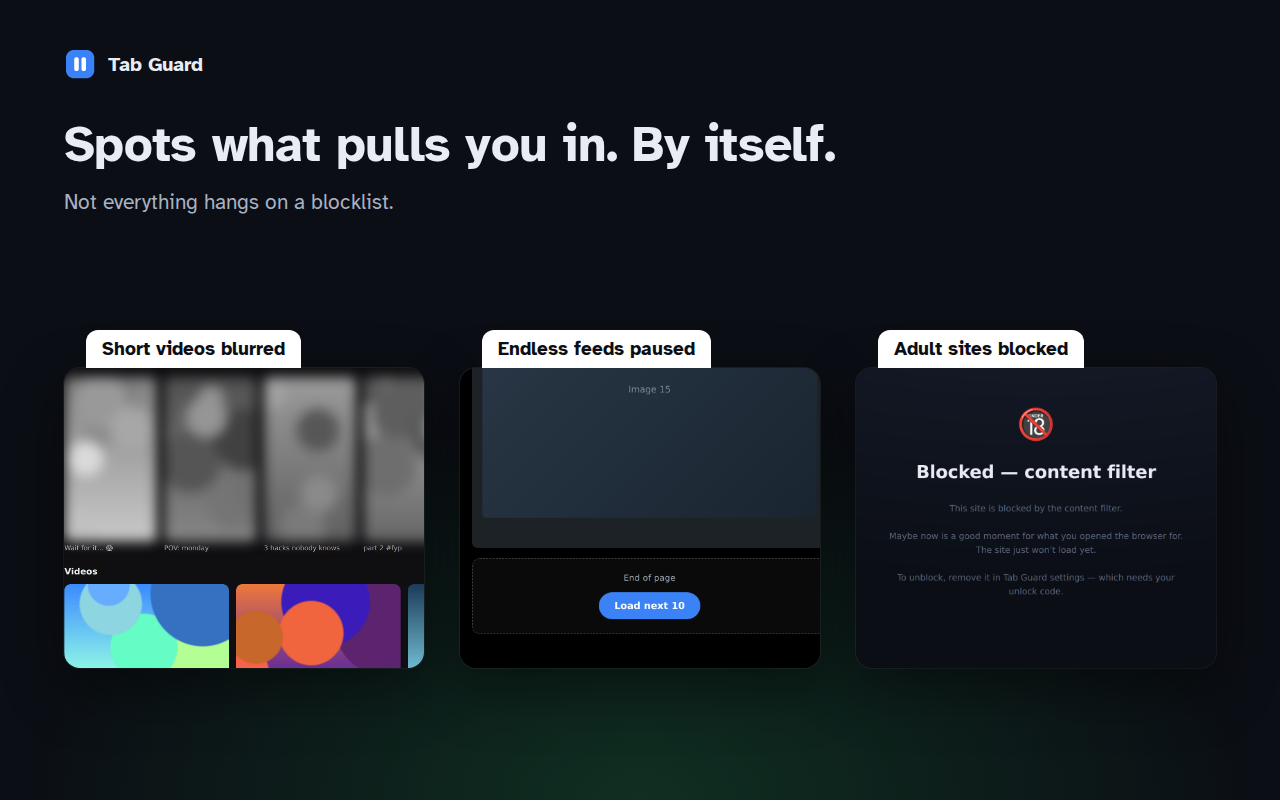
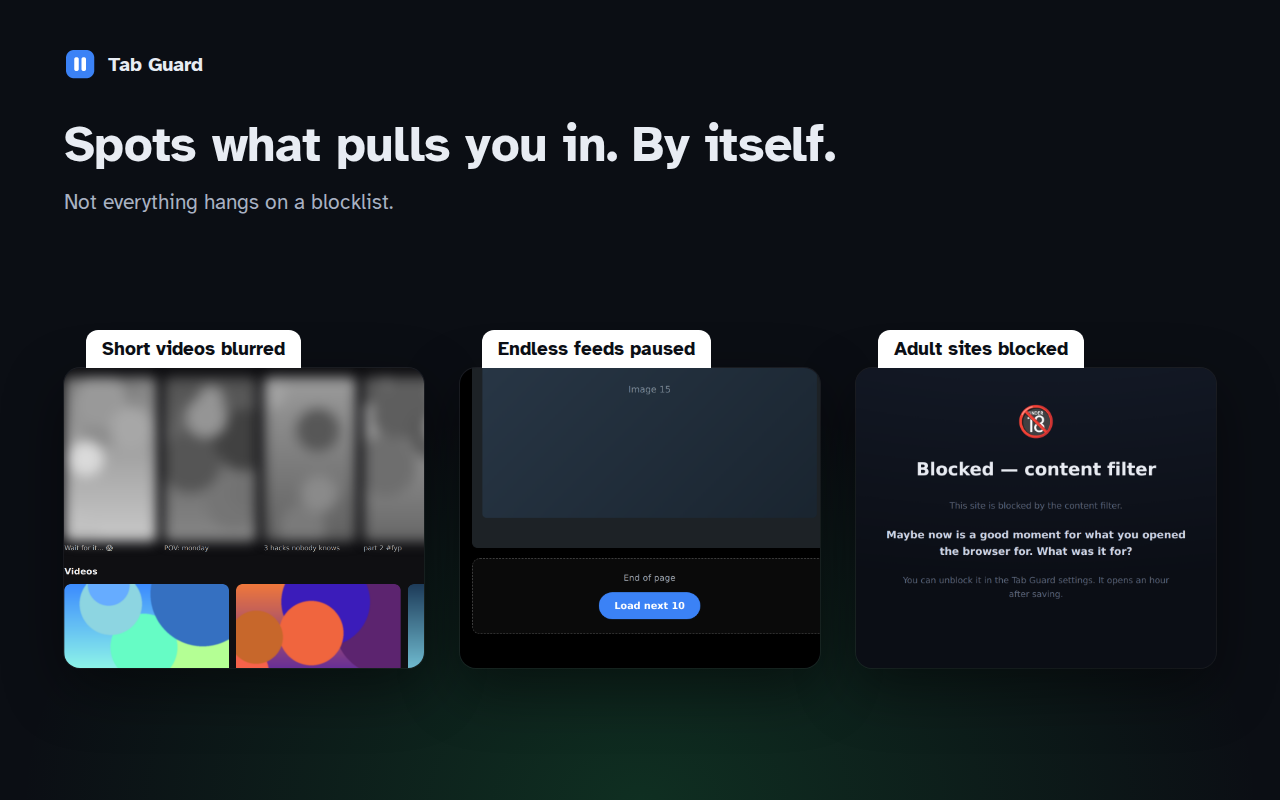
1.37.1: store texts without brand lists, EN/DE screenshots, clearer calm view, quiet database check
Claude-Session: https://claude.ai/code/session_011garBS1rzJeiygQuKKSiJE

Changed region(s): [[0.6875, 0.625, 0.9375, 0.75], [0.7188, 0.5, 0.9062, 0.5938]]

diff --git a/extension/assets/i18n.js b/extension/assets/i18n.js
@@ -844,6 +844,11 @@ Object.assign(de, {"w_h1": "Surf mit Absicht, nicht auf Autopilot.", "w_lead": "
 Object.assign(fr, {"w_h1": "Navigue avec intention, pas en pilote automatique.", "w_lead": "Tab Guard intervient quand la navigation passe en pilote automatique, et se fait discret sur les sites de confiance.", "w_i1t": "Des freins en pilote automatique", "w_i1": "Une pause respiration avec une question, un frein pour les spirales d’onglets et les fils sans fin.", "w_i2t": "Moins de stimulation", "w_i2": "Les images grisent à mesure que tu restes. Vidéos courtes et aperçus sont stoppés.", "w_i3t": "Bloqué ce que tu ne veux pas", "w_i3": "Ta liste de blocage, le filtre de contenu et une salle d’attente pour les sites qui t’aspirent.", "w_private": "Tout reste dans ton navigateur : pas de compte, pas de serveur, pas de pistage.", "w_h2": "Où Tab Guard doit-il te laisser tranquille ?", "w_lead2": "Les sites de confiance et les services de streaming que tu regardes exprès ne sont jamais freinés.", "w_trusted": "Travail et outils. Touche pour retirer, ou ajoute les tiens.", "w_streaming": "Ce que tu regardes exprès. YouTube n’y est volontairement pas.", "w_addPh": "p. ex. exemple.fr", "w_add": "Ajouter", "w_h3": "Qu’est-ce qui doit être plus difficile d’accès ?", "w_lead3": "Modifiable plus tard dans les réglages.", "w_adult": "Bloque les sites pour adultes et ceux qui contournent les filtres (proxys, jeux débloqués), et active SafeSearch.", "w_wait": "Ces sites ne s’ouvrent qu’après une courte attente et une question. Ensuite, ils restent libres 15 minutes.", "w_h4": "C’est prêt.", "w_lead4": "Encore deux choses, si tu veux.", "w_lock": "Tes règles doivent tenir même dans un moment de faiblesse ? Le verrou demande un code tapé à la main avant tout changement.", "w_lockBtn": "Configurer le verrou", "w_moreT": "Tout le reste", "w_more": "Frein à onglets, frein de fil, filtre vidéos courtes, mode nuit et plus sont déjà actifs, avec des réglages doux.", "w_later": "Un assouplissement ici (plus de sites de confiance, filtre désactivé) ne s’applique qu’après une heure.", "w_back": "Retour", "w_next": "Suivant", "w_start": "C’est parti", "w_done": "Terminé"});
 Object.assign(es, {"w_h1": "Navega con intención, no en piloto automático.", "w_lead": "Tab Guard interviene cuando la navegación pasa a piloto automático, y no molesta en los sitios de confianza.", "w_i1t": "Frenos en piloto automático", "w_i1": "Una pausa para respirar con una pregunta, un freno para espirales de pestañas y feeds infinitos.", "w_i2t": "Menos estímulo", "w_i2": "Las imágenes se vuelven más grises cuanto más te quedas. Vídeos cortos y vistas previas se detienen.", "w_i3t": "Bloqueado lo que no quieres", "w_i3": "Tu lista de bloqueo, el filtro de contenido y una sala de espera para los sitios que te atrapan.", "w_private": "Todo queda en tu navegador: sin cuenta, sin servidor, sin rastreo.", "w_h2": "¿Dónde debe dejarte en paz Tab Guard?", "w_lead2": "Los sitios de confianza y los servicios de streaming que ves a propósito nunca se frenan.", "w_trusted": "Trabajo y herramientas. Toca para quitar, o añade los tuyos.", "w_streaming": "Lo que ves a propósito. YouTube no está, a propósito.", "w_addPh": "p. ej. ejemplo.es", "w_add": "Añadir", "w_h3": "¿Qué debería costar más alcanzar?", "w_lead3": "Se puede cambiar luego en los ajustes.", "w_adult": "Bloquea sitios para adultos y sitios que esquivan filtros (proxys, juegos desbloqueados), y activa SafeSearch.", "w_wait": "Estos sitios solo se abren tras una breve espera con una pregunta. Después quedan libres 15 minutos.", "w_h4": "Listo.", "w_lead4": "Dos cosas más, si quieres.", "w_lock": "¿Quieres que tus reglas aguanten también en un momento débil? El bloqueo pide un código tecleado a mano antes de cualquier cambio.", "w_lockBtn": "Configurar el bloqueo", "w_moreT": "Todo lo demás", "w_more": "Freno de pestañas, freno de feed, filtro de vídeos cortos, modo noche y más ya están activos, con ajustes suaves.", "w_later": "Relajar algo aquí (más sitios de confianza, filtro apagado) surte efecto después de una hora.", "w_back": "Atrás", "w_next": "Siguiente", "w_start": "Vamos", "w_done": "Hecho"});
 Object.assign(ro, {"w_h1": "Navighează cu intenție, nu pe pilot automat.", "w_lead": "Tab Guard intervine când navigarea trece pe pilot automat și te lasă în pace pe site-urile de încredere.", "w_i1t": "Frâne pe pilot automat", "w_i1": "O pauză de respirație cu o întrebare, o frână pentru spirale de file și feeduri fără sfârșit.", "w_i2t": "Mai puțini stimuli", "w_i2": "Imaginile devin mai gri cu cât rămâi mai mult. Video scurte și previzualizări sunt oprite.", "w_i3t": "Blocat ce nu vrei", "w_i3": "Lista ta de blocare, filtrul de conținut și o sală de așteptare pentru site-urile care te trag înăuntru.", "w_private": "Totul rămâne în browser: fără cont, fără server, fără urmărire.", "w_h2": "Unde să te lase Tab Guard în pace?", "w_lead2": "Site-urile de încredere și serviciile de streaming pe care le urmărești intenționat nu sunt frânate niciodată.", "w_trusted": "Muncă și unelte. Atinge pentru a deselecta sau adaugă altele.", "w_streaming": "Ce urmărești intenționat. YouTube lipsește intenționat.", "w_addPh": "de ex. exemplu.ro", "w_add": "Adaugă", "w_h3": "Ce ar trebui să fie mai greu de accesat?", "w_lead3": "Se poate schimba mai târziu din setări.", "w_adult": "Blochează site-urile pentru adulți și pe cele care ocolesc filtrele (proxy, jocuri deblocate) și activează SafeSearch.", "w_wait": "Aceste site-uri se deschid doar după o scurtă așteptare cu o întrebare. Apoi rămân libere 15 minute.", "w_h4": "Gata.", "w_lead4": "Încă două lucruri, dacă vrei.", "w_lock": "Vrei ca regulile să țină și într-un moment slab? Blocarea setărilor cere un cod tastat de mână înainte de orice schimbare.", "w_lockBtn": "Configurează blocarea", "w_moreT": "Restul", "w_more": "Frâna de file, frâna de feed, filtrul de video scurte, modul noapte și altele sunt deja pornite, cu setări blânde.", "w_later": "O relaxare aici (mai multe site-uri de încredere, filtru oprit) se aplică abia după o oră.", "w_back": "Înapoi", "w_next": "Mai departe", "w_start": "Hai", "w_done": "Gata"});
+Object.assign(en, {"view_lbl": "Calm view · everywhere", "view_here": "Leave this site out"});
+Object.assign(de, {"view_lbl": "Ruhige Ansicht · überall", "view_here": "Diese Seite ausnehmen"});
+Object.assign(fr, {"view_lbl": "Vue calme · partout", "view_here": "Exclure ce site"});
+Object.assign(es, {"view_lbl": "Vista tranquila · en todas partes", "view_here": "Excluir este sitio"});
+Object.assign(ro, {"view_lbl": "Vizualizare calmă · peste tot", "view_here": "Exclude acest site"});
 Object.assign(de, {"blocked": "gesperrt", "st_block": "gesperrt", "blockSite": "diese Seite sperren", "cd_blocked": "Gesperrt", "cd_adultTitle": "Gesperrt – Jugendschutz", "cd_reasonAdult": "Diese Seite ist durch den Jugendschutz gesperrt.", "o_intro": "Vertraute Seiten bleiben unberührt. Alles andere wird beobachtet: Wer immer wieder zurückkommt, sieht die Seite erst grau, dann unscharf, dann gesperrt.", "o_n_blocklist": "Diese Seiten sind immer gesperrt, ohne Vorstufen. Du kannst sie auch über das Popup hinzufügen. Entfernen gilt erst nach einer Stunde.", "o_n_jug": "Sperrt bekannte Erwachsenen-Seiten, Seiten mit RTA-Label und Seiten, die sich eindeutig als solche zu erkennen geben, dazu Proxy- und Unblocked-Games-Seiten. Nicht lückenlos. Ausschalten gilt erst nach einer Stunde.", "o_l_blockAt": "→ gesperrt ab", "o_l_sfBlockUrls": "/shorts/- und /reels/-Seiten sperren", "o_n_shortform": "Blendet Hochkant- und sehr kurze Videos aus (Shorts, Reels, Clips), auf jeder Seite und in eingebetteten Playern. Sperrt /shorts/- und /reels/-Seiten, filtert Feed-Karten und erkennt Videos schon an ihrem Format.", "o_n_escalation": "Je länger du auf beobachteten Seiten hängen bleibst, desto grauer und unschärfer werden Bilder, bis hin zur Sperre. Gehst du weg, lässt der Druck von selbst nach.", "o_n_breaker": "Öffnest du dieselbe beobachtete Seite in kurzer Zeit in vielen Tabs, kommt erst eine Pause, dann eine Sperre.", "o_n_scroll": "Scrollst du ein paar Minuten lang schnell und ohne Pause auf einer beobachteten Seite, kommt die Atempause mit der Frage nach deiner Intention.", "o_n_intention": "Die Pause, die fragt, was du vorhast. Du kannst die Frage umformulieren und dir Alternativen vorschlagen lassen. Format: Name > https://…", "o_n_trusted": "Eine Seite pro Zeile, Subdomains sind mit dabei. Alles, was hier nicht steht, wird beobachtet. Neue Einträge gelten erst nach einer Stunde.", "o_n_academic": "Gelten als vertraute Recherche. Normale Suchmaschinen (Google, Bing, DuckDuckGo) bleiben beobachtet.", "o_n_streaming": "Seiten, die du bewusst schaust: vertraut und nie ausgegraut. YouTube ist absichtlich nicht dabei.", "o_n_latenight": "In diesem Zeitfenster kommen die Bremsen früher und Pausen dauern länger, für die Stunden, in denen du am anfälligsten bist.", "o_n_fullblur": "Auf diesen Seiten wird bei Unschärfe die ganze Seite unscharf, auch der Text, und Text lässt sich nicht markieren oder kopieren. Andere Seiten: nur Bilder und Videos.", "o_n_redirects": "Leitet eine beobachtete Seite auf eine ruhigere um. Pro Zeile: von > nach."});
 Object.assign(en, {"o_n_trusted": "One site per line, subdomains included. Everything not listed here is watched. New entries take effect after an hour."});
 export const MESSAGES = { en, de, fr, es, ro };

diff --git a/extension/src/bypass.js b/extension/src/bypass.js
@@ -223,12 +223,19 @@
     return { engine: f.engine, transport: f.transport, rewritten, store };
   }
   // The engines' own databases. Asynchronous; resolves to true or false.
+  // Never rejects: some frames (sandboxed, opaque origins) refuse the question.
   function engineDatabases(win) {
     win = win || self;
-    try {
-      if (!win.indexedDB || !win.indexedDB.databases) return Promise.resolve(false);
-      return win.indexedDB.databases().then(list => list.some(d => d && (d.name === "$scramjet" || d.name === "__op")), () => false);
-    } catch (_) { return Promise.resolve(false); }
+    return new Promise((resolve) => {
+      try {
+        if (!win.indexedDB || typeof win.indexedDB.databases !== "function" || !win.location || win.location.origin === "null") return resolve(false);
+        const done = setTimeout(() => resolve(false), 3000);
+        Promise.resolve(win.indexedDB.databases())
+          .then(list => resolve(Array.isArray(list) && list.some(d => d && (d.name === "$scramjet" || d.name === "__op"))))
+          .catch(() => resolve(false))
+          .finally(() => clearTimeout(done));
+      } catch (_) { resolve(false); }
+    });
   }
 
   self.TGBypass = { norm, score, isBypassLink, embeddedTarget, isProxyUrl, titleCloak, siteKey, paramTargets, isFramedProxy, looksLikeUrlBar, engineMarks, engineDatabases, fileHits };

diff --git a/extension/content/frame.js b/extension/content/frame.js
@@ -36,7 +36,11 @@
       const B = globalThis.TGBypass; if (!B || !B.engineMarks) return;
       const e = B.engineMarks(document, window);
       if (e.engine.length || e.rewritten || e.store) report();
-      if (engineLooks === 1 && B.engineDatabases) B.engineDatabases(window).then(y => { if (y) report(); });
+      if (engineLooks === 1 && B.engineDatabases) {
+        // only frames of the same site as the page (a proxy's own windows)
+        let same = false; try { same = window.top.location.origin === location.origin; } catch (_) {}
+        if (same) B.engineDatabases(window).then(y => { if (y) report(); }).catch(() => {});
+      }
     } catch (_) {}
   }
   // A browser inside the page: an address bar with back / forward / reload

diff --git a/extension/content/content.js b/extension/content/content.js
@@ -1818,7 +1818,7 @@ setInterval(tgCheckGuards, 800);
   function bypassSiteCheck() {
     if (bsSent || !bpOn) return;
     const f = bsFeatures(); if (!f) return;
-    if (bsDbAsked < 6 && !bsDb) { bsDbAsked++; const lib = bpLib(); if (lib && lib.engineDatabases) lib.engineDatabases(window).then(y => { if (y && !bsDb) { bsDb = true; bypassSiteCheck(); } }); }
+    if (bsDbAsked < 6 && !bsDb) { bsDbAsked++; const lib = bpLib(); if (lib && lib.engineDatabases) lib.engineDatabases(window).then(y => { if (y && !bsDb) { bsDb = true; bypassSiteCheck(); } }).catch(() => {}); }
     if (f.score >= 5) {
       bsSent = true;
       const strong = f.why.some(w => /^(proxyUrl|proxyFrame|engine:|rewritten|engineStore|engineDb)/.test(w));

diff --git a/extension/pages/waitroom.html b/extension/pages/waitroom.html
@@ -44,7 +44,7 @@
     <h1 id="title"></h1>
     <p class="sub" id="sub"></p>
     <label class="q" for="why" id="q"></label>
-    <input id="why" type="text" autocomplete="off" maxlength="140">
+    <input id="why" type="text" autocomplete="off" spellcheck="false" maxlength="140">
     <div class="row">
       <button type="button" id="back"></button>
       <button type="button" id="open" disabled></button>

diff --git a/docs/store-listing.md b/docs/store-listing.md
@@ -1,5 +1,7 @@
 # Store listing
 
+Store descriptions name no other products or brands: the Chrome Web Store counts lists of names (search engines, sites) as keyword spam.
+
 ## English
 
 ```
@@ -15,8 +17,8 @@ What you get
 - Your evenings back. Endless feeds stop after one page. More posts wait behind a button with a short countdown, so you decide whether to go on.
 - No more tab spirals. Open the same site again and again, and Tab Guard asks for one breath and one question: what are you here for? Keep going, and the site locks for 30 minutes. When the lock ends, you land exactly where you were heading.
 - Less stimulation, less pull. The longer you linger on watched sites, the greyer and blurrier images get, up to a block. Step away, and the pressure eases off by itself.
-- Fewer traps. Shorts, Reels and autoplay previews are hidden or stopped. Reddit can open in a calmer front end.
-- Adult content kept out. Adult sites are recognised and blocked, and searches on Google, Bing, DuckDuckGo, Brave, Yahoo and SearXNG run with SafeSearch.
+- Fewer traps. Short vertical videos and autoplay previews are hidden or stopped. Busy sites can open in a calmer front end you choose.
+- Adult content kept out. Adult sites are recognised and blocked, and web searches run with SafeSearch.
 - A way out when you truly need one. Exits with a short, growing wait and a daily budget you set. Helplines, health and government sites are never blocked.
 
 Rules you set, and that hold
@@ -25,7 +27,7 @@ You decide what is trusted, watched or blocked. Work, academic search and the st
 Also included
 - A waiting room: sites you pick open only after a short wait with one question
 - Proxy and unblocked-games sites are recognised by how they are built, also inside frames
-- Import as many block lists as you like (e.g. from Cold Turkey)
+- Import as many block lists as you like, from other blockers or hosts files
 - Export and import your settings
 
 Private by design
@@ -49,8 +51,8 @@ Was du davon hast
 - Deine Abende zurück. Endlos-Feeds halten nach einer Seite an. Weitere Beiträge warten hinter einem Button mit kurzem Countdown, und du entscheidest, ob du weitermachst.
 - Schluss mit Tab-Spiralen. Öffnest du dieselbe Seite immer wieder, bittet Tab Guard um einen Atemzug und eine Frage: Was hast du hier vor? Machst du trotzdem weiter, wird die Seite für 30 Minuten gesperrt. Danach landest du genau dort, wo du hinwolltest.
 - Weniger Reiz, weniger Sog. Je länger du auf beobachteten Seiten hängen bleibst, desto grauer und unschärfer werden Bilder, bis hin zur Sperre. Gehst du weg, lässt der Druck von selbst nach.
-- Weniger Fallen. Shorts, Reels und automatisch startende Vorschauen werden ausgeblendet oder gestoppt. Reddit öffnet auf Wunsch in einer ruhigeren Oberfläche.
-- Kein Adult-Content. Adult-Seiten werden erkannt und gesperrt, Suchen bei Google, Bing, DuckDuckGo, Brave, Yahoo und SearXNG laufen mit SafeSearch.
+- Weniger Fallen. Hochkant-Kurzvideos und automatisch startende Vorschauen werden ausgeblendet oder gestoppt. Unruhige Seiten öffnen auf Wunsch in einer ruhigeren Oberfläche, die du wählst.
+- Kein Adult-Content. Adult-Seiten werden erkannt und gesperrt, Websuchen laufen mit SafeSearch.
 - Ein Ausweg, wenn du ihn wirklich brauchst. Notausgänge mit kurzer, wachsender Wartezeit und einem Tagesbudget, das du festlegst. Hilfe-, Gesundheits- und Behördenseiten werden nie gesperrt.
 
 Regeln, die du festlegst und die halten
@@ -59,7 +61,7 @@ Du bestimmst, was vertraut, beobachtet oder gesperrt ist. Arbeit, Fachsuche und 
 Außerdem dabei
 - Ein Wartezimmer: Seiten, die du auswählst, öffnen erst nach einer kurzen Wartezeit mit einer Frage
 - Proxy- und Unblocked-Games-Seiten werden an ihrem Aufbau erkannt, auch in eingebetteten Fenstern
-- Beliebig viele Sperrlisten importieren (z. B. aus Cold Turkey)
+- Beliebig viele Sperrlisten importieren, aus anderen Blockern oder Hosts-Dateien
 - Einstellungen exportieren und importieren
 
 Privat von Grund auf

diff --git a/CHANGELOG.md b/CHANGELOG.md
@@ -1,5 +1,12 @@
 # Changelog
 
+## 1.37.1
+- Store texts name no other products any more (the Chrome Web Store had flagged the list of search engines as keyword spam).
+- New store screenshots in English and German, from the current version: intention, detection, calmer pages, waiting room, rules and privacy.
+- Calm view in the popup: “Calm view · everywhere” and “Leave this site out”, so it's clear the switch is an exception for the open site.
+- No more “Uncaught (in promise)” in the console on pages with sandboxed frames: the proxy database check never rejects and only runs in frames of the same site.
+- Waiting room: no spell-check underline in the question field.
+
 ## 1.37.0
 - **Waiting room for sites.** Sites on this list open only after a short wait (20 s by default) on a calm page with one question: what for? Then they stay free for a while (15 min). The wait is timed in the background, so it can't be skipped in the inspector. Applies during a pause too; removing a site or shortening the wait takes effect after an hour.
 - **Introduction** after installing, in four steps: what Tab Guard does, trusted sites and streaming services, content filter and waiting room, settings lock. It can be opened again from the settings; then loosening choices wait an hour as usual.

diff --git a/docs/store-kit.md b/docs/store-kit.md
@@ -8,7 +8,8 @@ Use this with the files in the kit zip: two packages, five screenshots and the i
 |---|---|
 | `tab-guard_vX.Y.Z-chrome.zip` | Chrome Web Store, Edge Add-ons, Opera: “Upload new package” |
 | `tab-guard_vX.Y.Z-firefox.zip` | addons.mozilla.org: “Upload a new version” (your existing listing; the package carries its add-on id) |
-| `screenshots/1-…5-*.png` (1280×800) | Screenshots, in this order |
+| `screenshots/1-…5-*.png` (1280×800) | Screenshots, in this order (English) |
+| `screenshots/de/1-…5-*.png` | The same in German: in the Chrome dashboard, switch the listing language to German and upload these there |
 | `icon.png` (128×128) | Store icon |
 | Privacy policy | `https://github.com/coach-kg/Tab-Guard/blob/main/tab-guard-PRIVACY.md` |
 | Homepage / support | `https://github.com/coach-kg/Tab-Guard` and `…/issues` |

diff --git a/README.md b/README.md
@@ -60,8 +60,8 @@ You decide what is trusted, watched or blocked. Work, academic search and the st
 - **Pause button.** Switches the friction off for a while. Blocklist, content filter and redirects stay on.
 
 <p align="center">
-  <img src="docs/screenshots/4-rules.png" width="49%" alt="Settings lock, loosening delay, SafeSearch, growing waits">
-  <img src="docs/screenshots/5-private.png" width="49%" alt="Private, free, no account">
+  <img src="docs/screenshots/4-waitroom.png" width="49%" alt="A waiting room: the site opens after a short wait and one question">
+  <img src="docs/screenshots/5-rules.png" width="49%" alt="Settings lock, loosening waits an hour, private by design">
 </p>
 
 ## Private by design

diff --git a/README.de.md b/README.de.md
@@ -13,7 +13,7 @@
 <p align="center"><a href="README.md">English</a></p>
 
 <p align="center">
-  <img src="docs/screenshots/1-intention.png" width="760" alt="Tab Guard fragt: Was hast du hier vor?">
+  <img src="docs/screenshots/de/1-intention.png" width="760" alt="Tab Guard fragt: Was hast du hier vor?">
 </p>
 
 Tab Guard greift ein, wenn Surfen zum Autopiloten wird: der fünfte Tab derselben Seite, der Feed ohne Ende, das „nur noch ein Video“. Es stoppt dich mit einer bewussten Pause und einer Frage, macht Seiten reizärmer, je länger du bleibst, und sperrt, was du gar nicht sehen willst. Auf Seiten, denen du vertraust, hält es sich raus.
